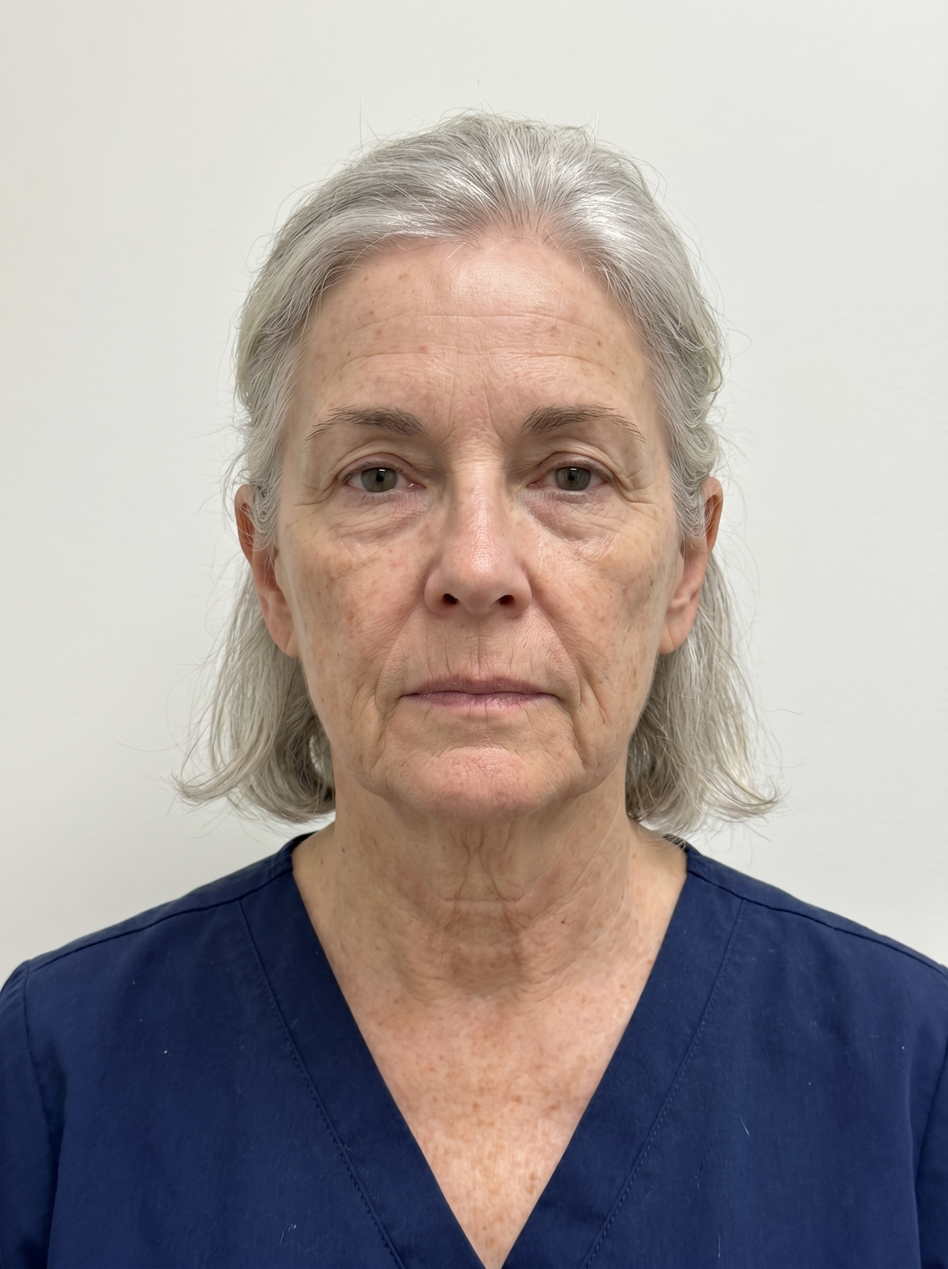
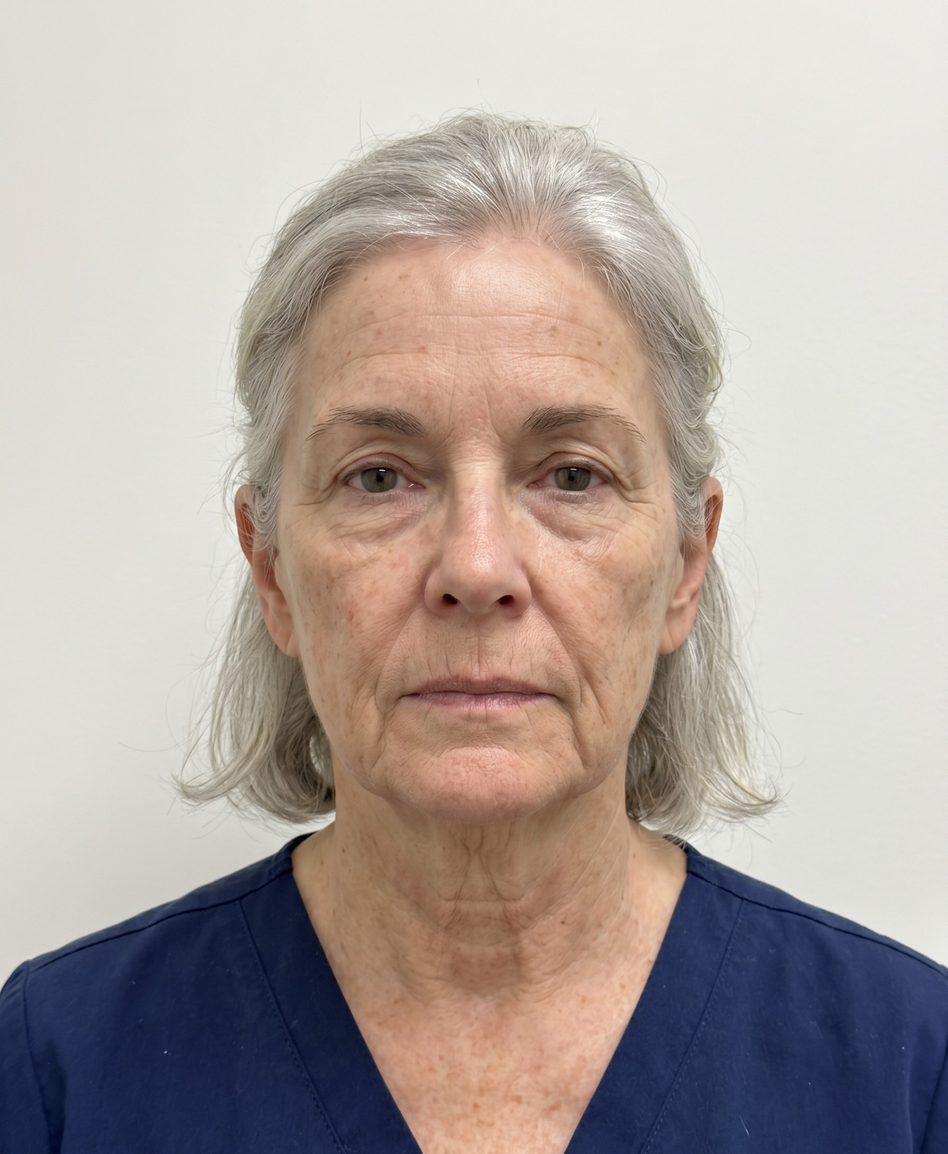
feat: add user-aligned clinical photos and clean up temporary CSS transforms

diff --git a/src/components/ClinicalCases.jsx b/src/components/ClinicalCases.jsx
@@ -45,9 +45,6 @@ const CLINICAL_CASES = [
     subtitle: "Tratamiento integral de bioestimulación tisular",
     beforeImg: "/assets/case_04_before.jpg",
     afterImg: "/assets/case_04_after.jpg",
-    // Aligns the face structure precisely based on visual measurements
-    beforeStyle: { transform: "scale(1.02)" },
-    afterStyle: { transform: "scale(1.06) translate(-1%, 2.2%)" },
     details: [
       { label: "TÉCNICA", value: "Retensado Profundo" },
       { label: "INSUMO", value: "Radiesse" },
@@ -60,9 +57,6 @@ const CLINICAL_CASES = [
     subtitle: "Definición mandibular y proyección del mentón",
     beforeImg: "/assets/case_05_before.jpg",
     afterImg: "/assets/case_05_after.jpg",
-    // Aligns the facial features precisely based on visual measurements
-    beforeStyle: { transform: "scale(1.02)" },
-    afterStyle: { transform: "scale(1.08) translate(-2%, -4.5%)" },
     details: [
       { label: "TÉCNICA", value: "Estructuración Ósea" },
       { label: "INSUMO", value: "Hidroxiapatita" },
